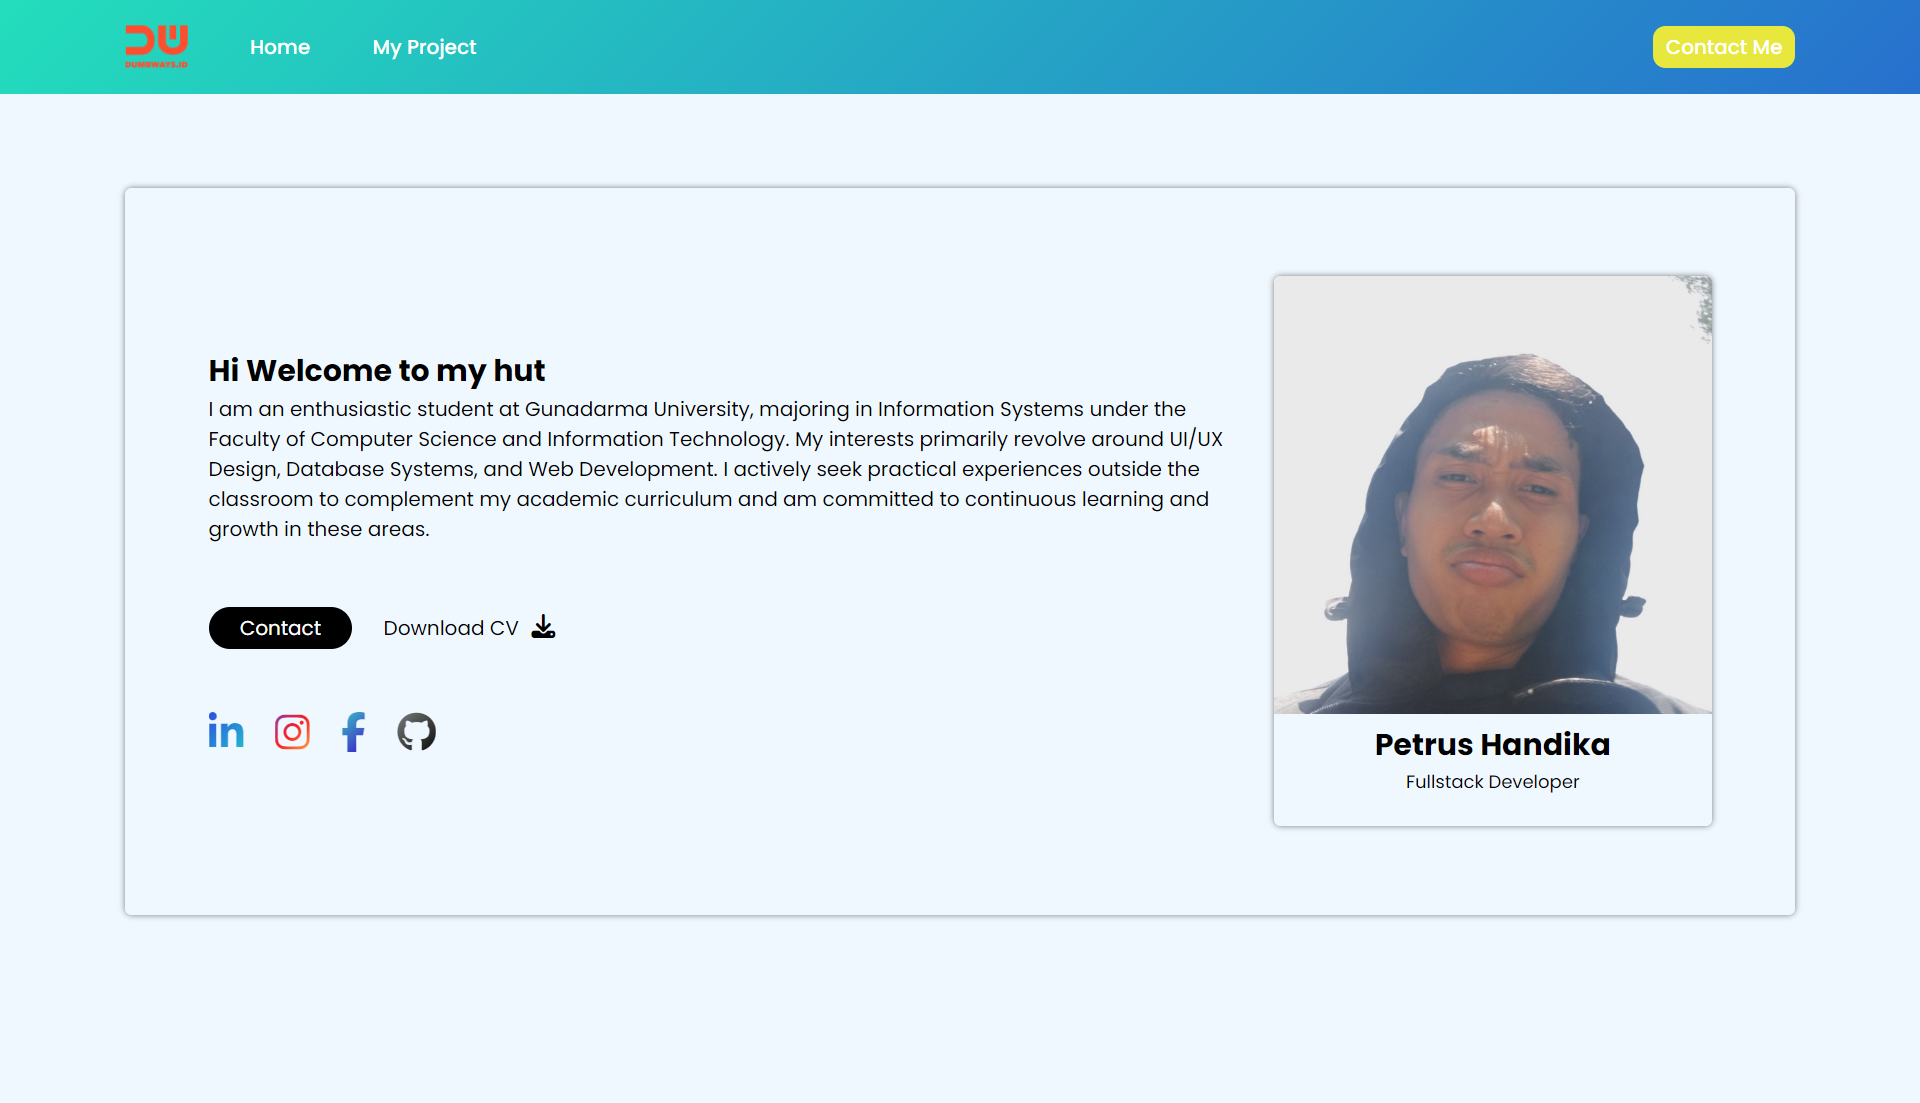
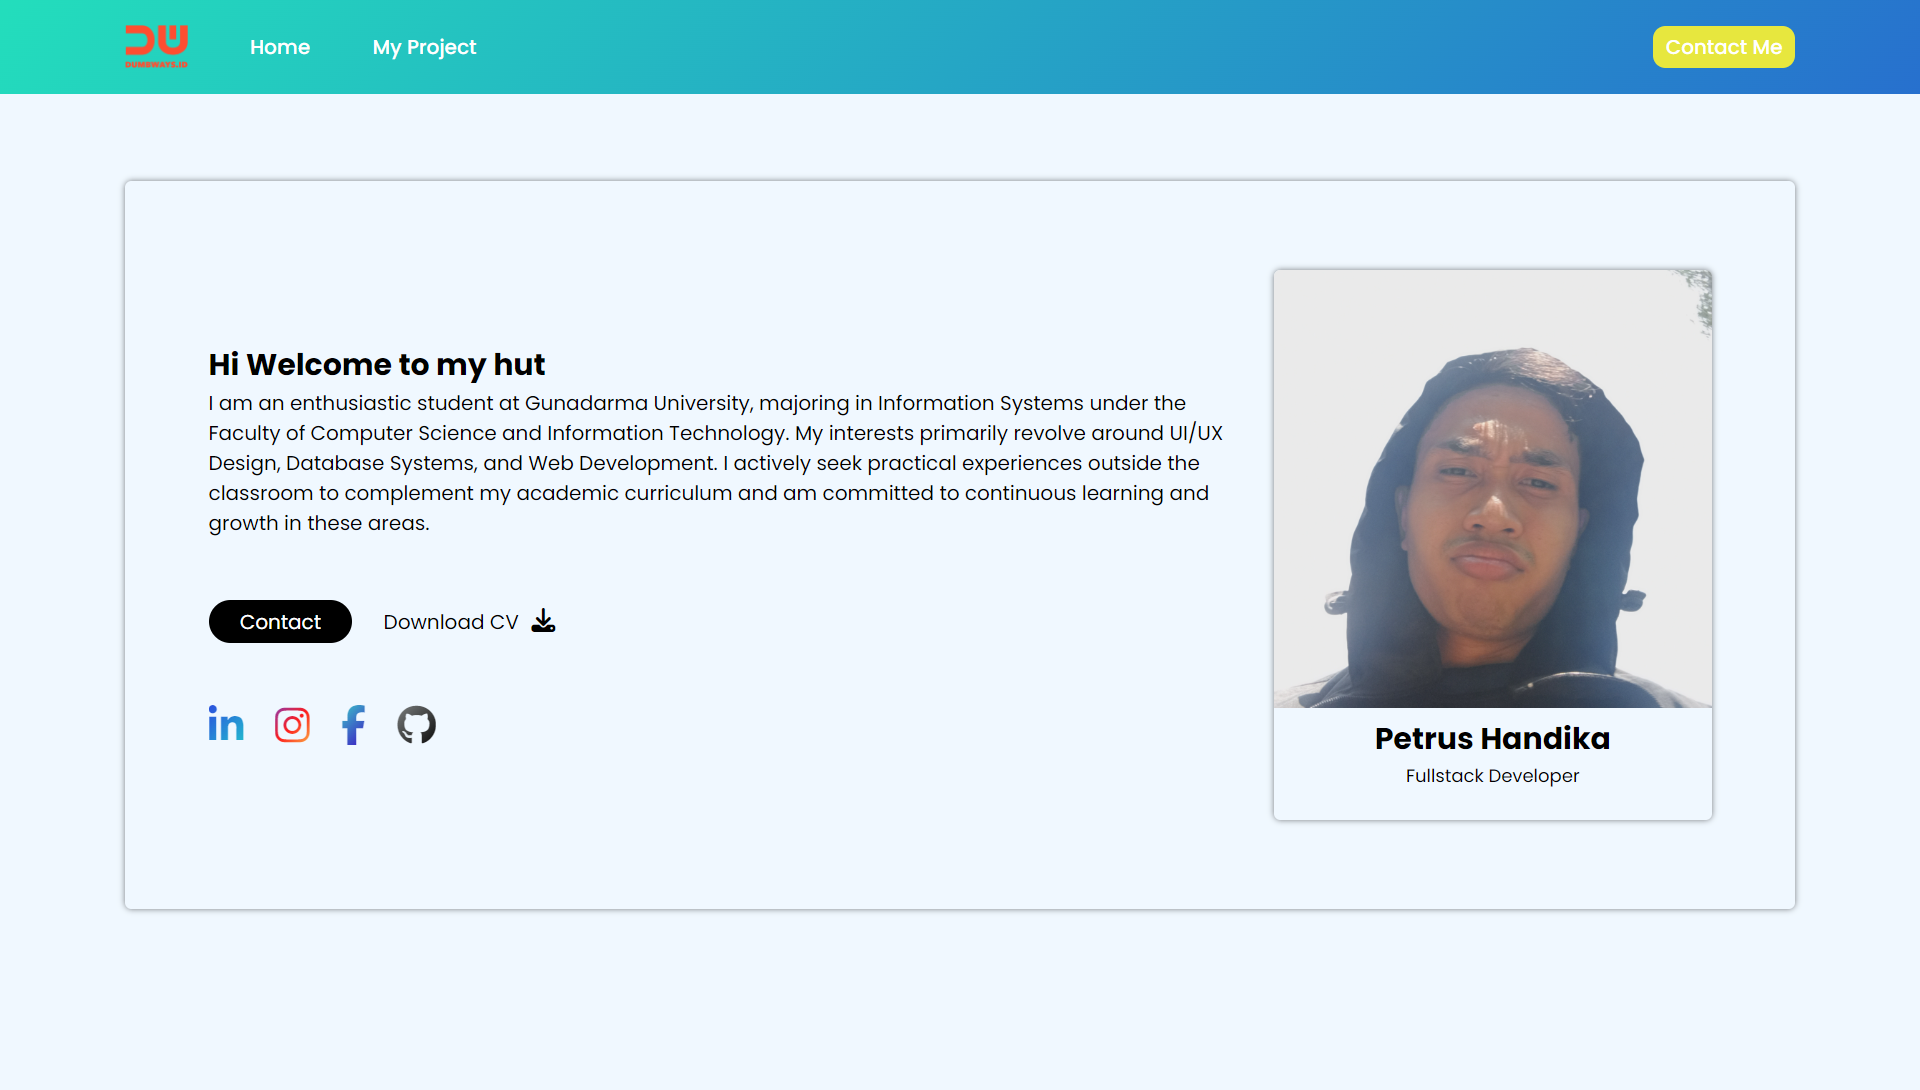
Update Assets

diff --git a/assets/css/styles.css b/assets/css/styles.css
@@ -72,14 +72,31 @@ body {
     row-gap: 20px;
 }
 
-.card-image img {
-    border-radius: 5px;
+.card-image {
     width: 100%;
-    height: fit-content;
-    max-height: 415px;
+    height: 300px;
+    overflow: hidden;
+}
+
+.card-image img {
+    width: 100%;
+    height: 100%;
+    object-fit: cover;
 }
 
 .card-content a {
     color: #fff;
     text-decoration: none;
+}
+
+@media only screen and (max-width: 768px) {
+  .card-image {
+    max-height: 250px;
+  }
+}
+
+@media only screen and (max-width: 480px) {
+  .card-image {
+    max-height: 200px;
+  }
 }

diff --git a/assets/js/main.js b/assets/js/main.js
@@ -1,6 +1,7 @@
 window.addEventListener("DOMContentLoaded", () => {
-    initRoutes("routes1", 1, "content1", "Creating Card");
-    initRoutes("routes2", 2, "content2", "Navbar and Contact Form");
+    initRoutes("dayOne", 1, "contentOne", "Creating Card");
+    initRoutes("dayTwo", 2, "contentTwo", "Navbar and Contact Form");
+    initRoutes("dayThree", 3, "contentThree", "Form Submission");
 })
 
 function initRoutes(routesId, startIndex, contentId, paragraphContent) {
